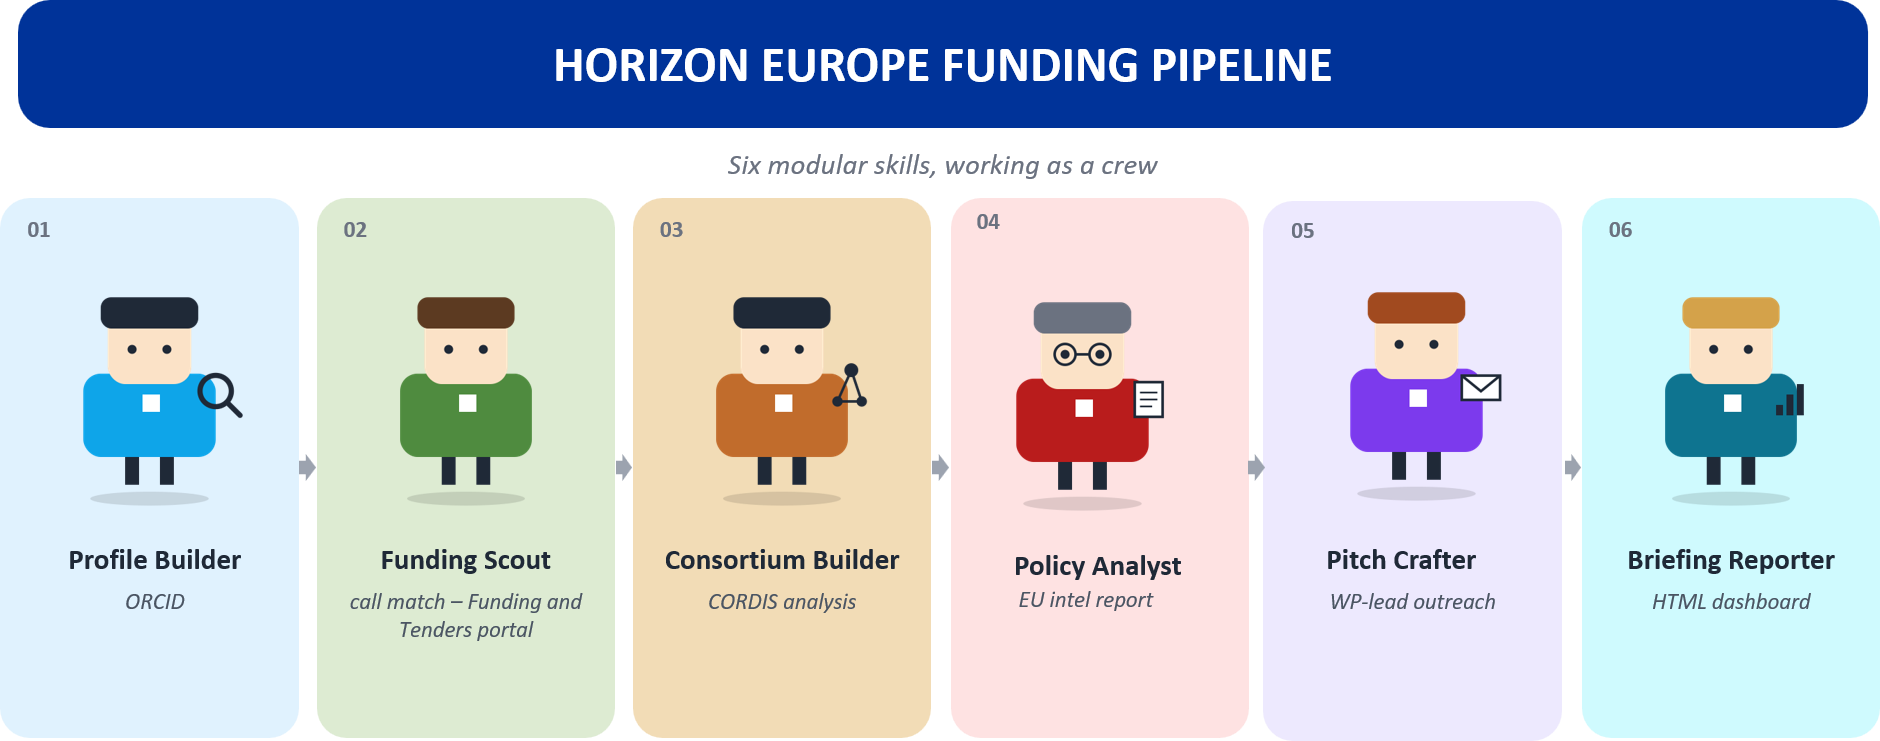
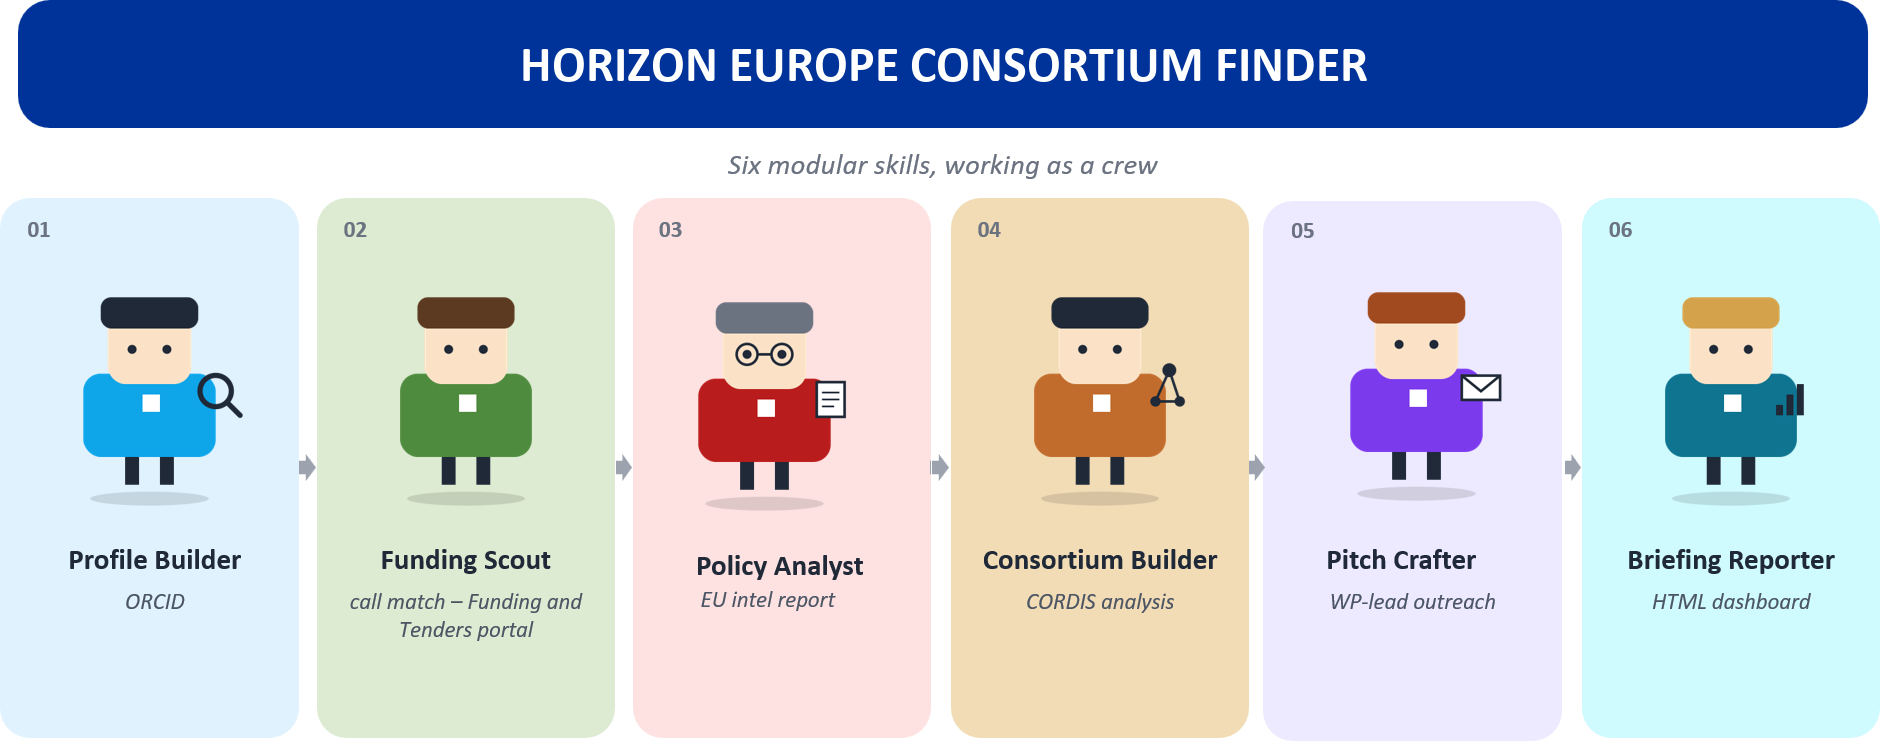
Pipeline-billedet: Policy Analyst før Consortium Builder som i pluginet, og ny overskrift "Horizon Europe Consortium Finder"

Changed region(s): [[0.3394, 0.2483, 0.6787, 1.0], [0.2777, 0.0621, 0.7404, 0.1242]]

diff --git a/README.md b/README.md
@@ -5,7 +5,7 @@ Delivered as a Claude plugin, `horizon-europe-consortium-finder` (called `resear
 
 ## How it works
 
-![The Horizon Europe funding pipeline: six skills that work as a crew, from Profile Builder to Briefing Reporter](docs/how-it-works.png)
+![Horizon Europe Consortium Finder: six skills that work as a crew, from Profile Builder to Briefing Reporter](docs/how-it-works.png)
 
 You fill in one form. Six skills then work through the search one after another, each building on the one before:
 
